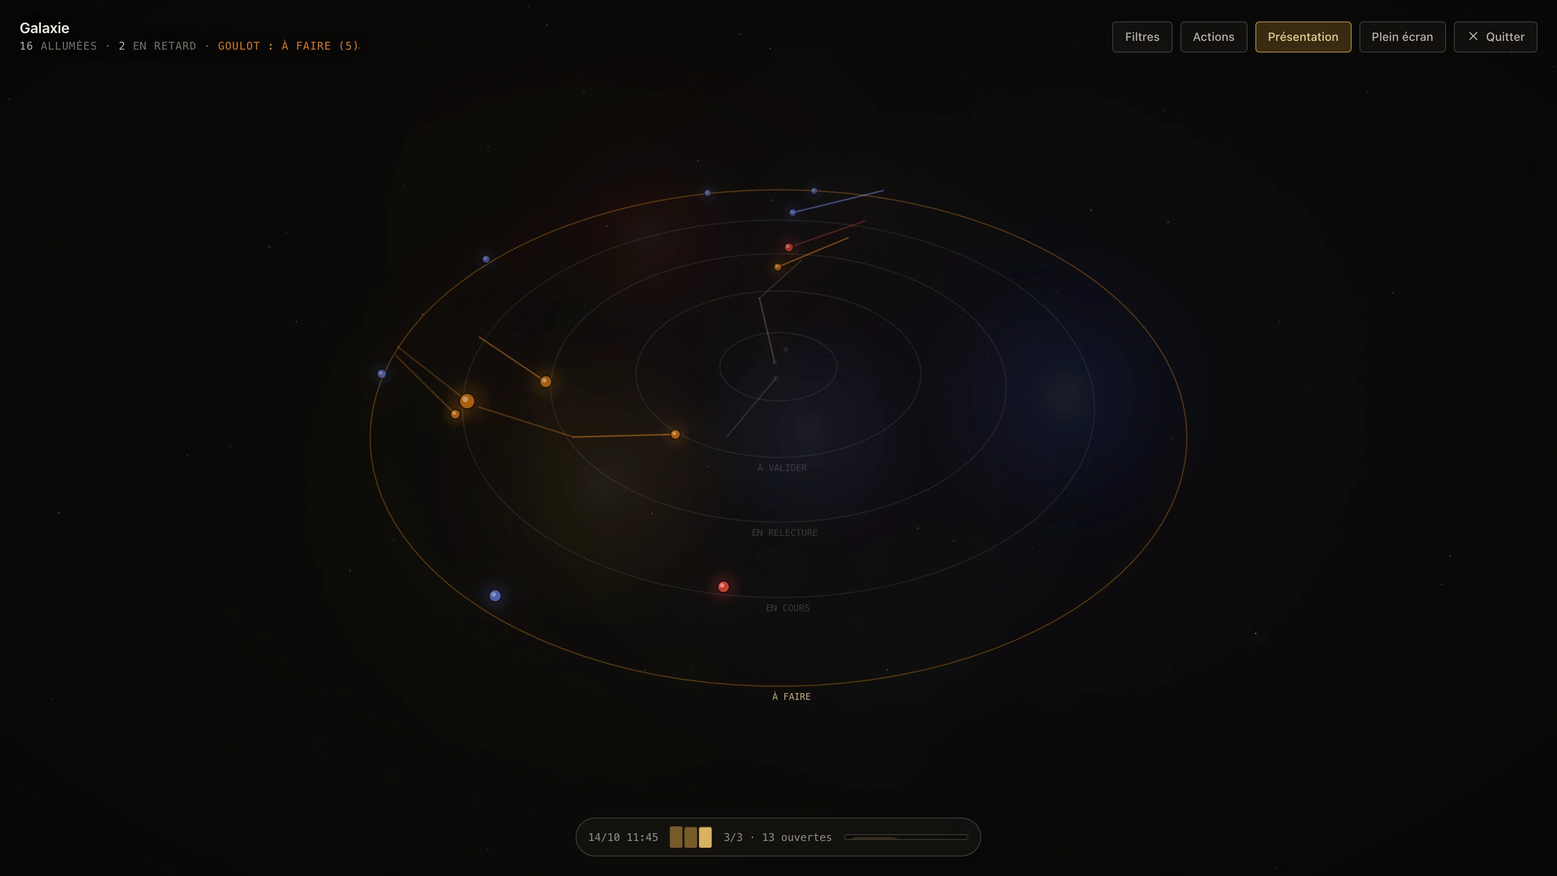
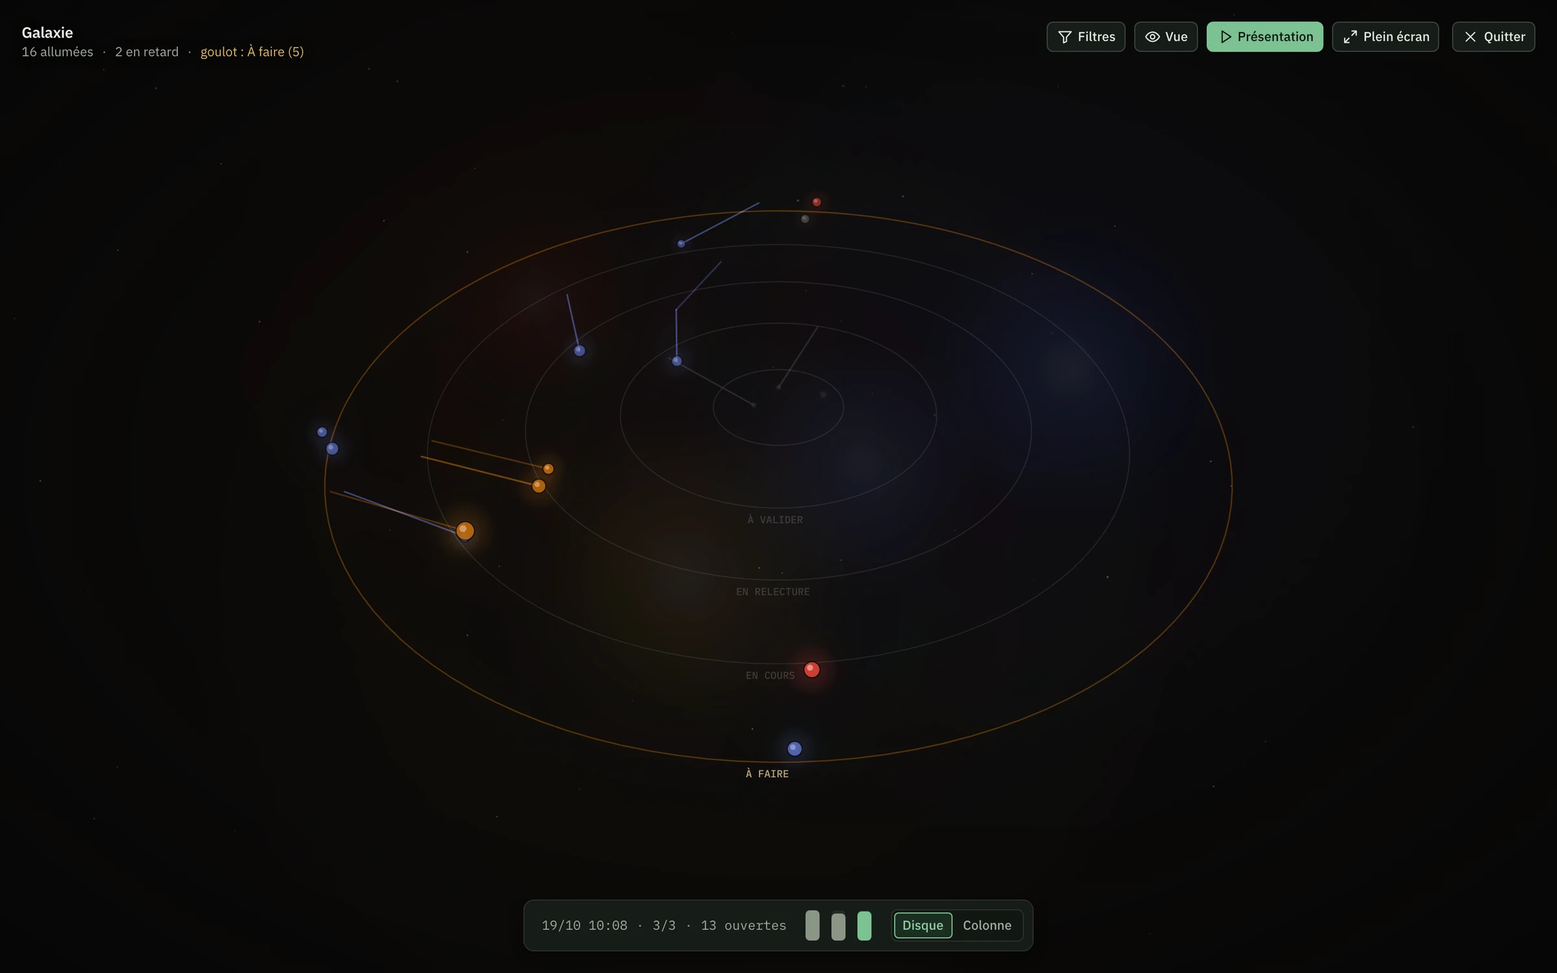
feat(site): refaire les captures de Karl Scraper après sa refonte
L'interface a été refaite et fusionnée le 19/10/2026 : les écrans
provisoires du 14/10 laissent la place à une série prise à la révision
4e054a3, chaque écran pris sur son panneau de contenu, la nouvelle
coquille nommant l'outil source. Recadrages, loupes, alts et provenance
suivent les nouveaux écrans ; la page ne les dit plus provisoires.

diff --git a/site/tests/e2e/karl-scraper.spec.ts b/site/tests/e2e/karl-scraper.spec.ts
@@ -109,6 +109,7 @@ test('rien ne nomme une donnée privée ni une référence réelle : « Karl » 
   expect(texte).not.toMatch(/\b181\b/);
   await expect(page.locator('#sources')).toContainText('données fictives');
   await expect(page.locator('#sources')).toContainText('6615950');
+  await expect(page.locator('#sources')).toContainText('4e054a3');
 });
 
 test('quatre vrais écrans : l’en-tête recadré sur sa colonne, chacun s’ouvre en grand et se referme à Échap', async ({ page }) => {
@@ -128,7 +129,7 @@ test('quatre vrais écrans : l’en-tête recadré sur sa colonne, chacun s’ou
   const entiere = visionneuse.locator('[data-visionneuse-image]');
   await expect.poll(() => entiere.evaluate((img: HTMLImageElement) => img.naturalWidth)).toBeGreaterThan(0);
   const ratio = await entiere.evaluate((img: HTMLImageElement) => img.naturalWidth / img.naturalHeight);
-  expect(ratio).toBeCloseTo(2392 / 562, 1);
+  expect(ratio).toBeCloseTo(2352 / 1060, 1);
   await page.keyboard.press('Escape');
   await expect(visionneuse).toBeHidden();
   await expect(agrandir).toBeFocused();
@@ -145,11 +146,11 @@ test('la Galaxie, toujours sombre, vit dans un acte de veille, et sa loupe lit l
   const imageLoupe = capture.locator('.loupe img');
   await expect.poll(() => imageLoupe.evaluate((img: HTMLImageElement) => img.complete && img.naturalWidth > 0)).toBe(true);
   const [loupe, detail, ecran] = await Promise.all([capture.locator('.loupe').boundingBox(), imageLoupe.boundingBox(), capture.locator('.capture__vue > a img').boundingBox()]);
-  // L’image de la loupe est entière (2400 × 1350) et agrandie : le compte s’y lit.
-  expect(detail!.width / detail!.height).toBeCloseTo(2400 / 1350, 1);
+  // L’image de la loupe est entière (2400 × 1500) et agrandie : le compte s’y lit.
+  expect(detail!.width / detail!.height).toBeCloseTo(2400 / 1500, 1);
   expect(detail!.width).toBeGreaterThan(loupe!.width * 3.5);
   // La capture entière, à son ratio, et assez large pour la page.
-  expect(ecran!.width / ecran!.height).toBeCloseTo(2400 / 1350, 1);
+  expect(ecran!.width / ecran!.height).toBeCloseTo(2400 / 1500, 1);
   if ((page.viewportSize()?.width ?? 0) >= 1440) expect(ecran!.width).toBeGreaterThan(800);
 });
 
@@ -158,8 +159,8 @@ test('l’en-tête : sur mobile, les deux règles seules, lisibles ; sur ordinat
   const vue = page.locator('.ksc-entete-capture .capture__vue');
   const boite = await vue.boundingBox();
   const ratio = boite!.width / boite!.height;
-  if ((page.viewportSize()?.width ?? 0) <= 860) expect(ratio).toBeCloseTo((0.39 * 2728) / (0.46 * 1278), 1);
-  else expect(ratio).toBeCloseTo((0.59 * 2728) / 1278, 1);
+  if ((page.viewportSize()?.width ?? 0) <= 860) expect(ratio).toBeCloseTo((0.605 * 1808) / (0.355 * 1186), 1);
+  else expect(ratio).toBeCloseTo(1808 / 1186, 1);
 });
 
 test('sur mobile, l’écart seul se lit ; sur ordinateur, les trois panneaux', async ({ page }) => {
@@ -168,8 +169,8 @@ test('sur mobile, l’écart seul se lit ; sur ordinateur, les trois panneaux', 
   await vue.scrollIntoViewIfNeeded();
   const boite = await vue.boundingBox();
   const ratio = boite!.width / boite!.height;
-  if ((page.viewportSize()?.width ?? 0) <= 860) expect(ratio).toBeCloseTo(801 / 562, 1);
-  else expect(ratio).toBeCloseTo(2392 / 562, 1);
+  if ((page.viewportSize()?.width ?? 0) <= 860) expect(ratio).toBeCloseTo((0.445 * 2352) / (0.815 * 1060), 1);
+  else expect(ratio).toBeCloseTo(2352 / 1060, 1);
 });
 
 test('la loupe de la vue agent : l’image garde sa proportion, ne couvre pas la cible, passe dessous sous 560 px', async ({ page }) => {
@@ -184,8 +185,8 @@ test('la loupe de la vue agent : l’image garde sa proportion, ne couvre pas la
     capture.locator('.capture__vue > a img').boundingBox(),
     capture.locator('.loupe img').boundingBox(),
   ]);
-  // L’image de la loupe est entière (1696 × 1668), pas écrasée à la hauteur de la loupe.
-  expect(detail!.width / detail!.height).toBeCloseTo(1696 / 1668, 1);
+  // L’image de la loupe est entière (1086 × 1602), pas écrasée à la hauteur de la loupe.
+  expect(detail!.width / detail!.height).toBeCloseTo(1086 / 1602, 1);
   expect(detail!.height).toBeGreaterThan(loupe!.height * 2);
   const separees = loupe!.x > cible!.x + cible!.width || loupe!.y > cible!.y + cible!.height || loupe!.x + loupe!.width < cible!.x || loupe!.y + loupe!.height < cible!.y;
   expect(separees).toBe(true);
@@ -226,7 +227,9 @@ test('la sortie : GitHealth avant, Sillage après, retour à la vitrine, « Disc
   await expect(sortie.getByRole('link', { name: /Projet suivant\s+Sillage/ })).toHaveAttribute('href', '/projets/sillage');
   await expect(sortie.getByRole('link', { name: /Tous les projets/ })).toHaveAttribute('href', '/projets');
   await expect(sortie.locator('a[href^="http"]')).toHaveCount(0);
-  await expect(sortie).toContainText('les écrans de cette page sont provisoires');
+  // Les écrans sont pris après la refonte graphique : plus rien de provisoire.
+  await expect(sortie).toContainText('les écrans de cette page la montrent');
+  await expect(page.locator('main')).not.toContainText('provisoire');
 });
 
 test('une seule navigation de page, sans la note de sources', async ({ page }) => {

diff --git a/site/src/config/karl-scraper.ts b/site/src/config/karl-scraper.ts
@@ -15,8 +15,8 @@
  * ici ; les enchaînements sont livrés sans aucune règle : la page le dit.
  *
  * Captures : vraies vues de l’application lancée en local avec des données de
- * démonstration fictives, provisoires jusqu’à la refonte graphique de son
- * interface (src/assets/projets/karl-scraper/README.md).
+ * démonstration fictives, prises le 19/10/2026 à la révision 4e054a3, après la
+ * refonte graphique de son interface (src/assets/projets/karl-scraper/README.md).
  */
 import type { EntreeSommaire } from './navigation';
 import type { CarteVitrine } from './vitrine';
@@ -47,13 +47,13 @@ export const CARTE: CarteVitrine = {
   ],
   // La Galaxie, recadrée sur ses anneaux (KSC-C1, carte-galaxie.webp) : entière,
   // ses tâches ne faisaient que 2 ou 3 px à la taille d’une carte. Le recadrage
-  // garde les tâches reliées et deux libellés de statut, sans en trancher aucun.
+  // garde des tâches et leurs traînées, et deux libellés de statut entiers.
   visuel: {
     capture: {
       type: 'navigateur',
       src: carteGalaxie,
-      alt: 'La Galaxie de Karl Scraper : des tâches fictives sur les anneaux de leur statut, reliées entre elles.',
-      widths: [400, 783],
+      alt: 'La Galaxie de Karl Scraper : des tâches fictives sur les anneaux de leur statut, certaines suivies de la traînée de leurs positions précédentes.',
+      widths: [400, 780],
     },
   },
 };
@@ -132,7 +132,7 @@ export const ECRANS = {
     legende: 'Deux règles écrites pour la démonstration : retenir la compréhension qu’un agent propose (une « lecture », à l’écran), puis la confier à un agent. Un clic agrandit l’écran.',
   },
   tableauDeBord: {
-    alt: 'Le tableau de bord sur trois projets fictifs : les tâches par projet, par statut, et l’écart avec l’observation précédente, cinq statuts changés et une tâche nouvelle.',
+    alt: 'Le tableau de bord sur trois projets fictifs : l’écart avec l’observation précédente, cinq statuts changés et une tâche nouvelle, puis les tâches par projet et par statut.',
     legende: 'L’écart avec l’observation précédente : cinq statuts ont changé, une tâche est apparue.',
   },
   galaxie: {

diff --git a/site/src/config/visuels.ts b/site/src/config/visuels.ts
@@ -2745,7 +2745,7 @@ export const VISUELS: readonly EntreeVisuel[] = [
     page: '/projets/karl-scraper',
     emplacement: 'En-tête, § Une copie locale, § La Galaxie, § Ce que l’agent lit ; carte de la vitrine',
     sujet: 'Les écrans de Karl Scraper',
-    composition: 'Écrans réels de l’application lancée en local à la révision 6615950, face à un faux serveur source et sur des données fictives (trois projets, seize tâches, trois observations), aucun agent lancé, sans retouche ni recomposition',
+    composition: 'Écrans réels de l’application lancée en local à la révision 4e054a3, après la refonte graphique de son interface, face à un faux serveur source et sur des données fictives (trois projets, seize tâches, trois observations), aucun agent lancé, chaque écran pris sur son panneau de contenu, sans retouche ni recomposition',
     format: 'format natif des écrans',
     ratio: null,
     methode: 'CAP',
@@ -2760,7 +2760,7 @@ export const VISUELS: readonly EntreeVisuel[] = [
       { nom: 'vue-agent', fichier: 'src/assets/projets/karl-scraper/vue-agent.webp', alt: '' },
       { nom: 'carte-galaxie', fichier: 'src/assets/projets/karl-scraper/carte-galaxie.webp', alt: '' },
     ],
-    note: 'Captures provisoires, à refaire après la refonte graphique de l’interface ; provenance dans src/assets/projets/karl-scraper/README.md, alts et légendes dans config/karl-scraper.ts. Aucun libellé qui nomme l’outil source à l’écran.',
+    note: 'Série du 19/10/2026, après la refonte graphique de l’interface ; provenance dans src/assets/projets/karl-scraper/README.md, alts et légendes dans config/karl-scraper.ts. Aucun libellé qui nomme l’outil source à l’écran.',
   },
 
   // ↑ fin des entrées KSC

diff --git a/site/src/config/pages.ts b/site/src/config/pages.ts
@@ -13,14 +13,14 @@
  */
 export const PAGES_SITEMAP = [
   { chemin: '/', maj: '2026-10-16' },
-  { chemin: '/projets', maj: '2026-10-15' },
+  { chemin: '/projets', maj: '2026-10-19' },
   { chemin: '/projets/pvz-fusion', maj: '2026-10-16' },
   { chemin: '/projets/omnicard', maj: '2026-10-16' },
   { chemin: '/projets/gup', maj: '2026-10-16' },
   { chemin: '/projets/bloodborne-legendary-run', maj: '2026-10-16' },
   { chemin: '/projets/league-of-database', maj: '2026-10-16' },
   { chemin: '/projets/githealth', maj: '2026-10-16' },
-  { chemin: '/projets/karl-scraper', maj: '2026-10-16' },
+  { chemin: '/projets/karl-scraper', maj: '2026-10-19' },
   { chemin: '/projets/sillage', maj: '2026-10-16' },
   { chemin: '/projets/relais', maj: '2026-10-16' },
   { chemin: '/parcours', maj: '2026-10-15' },

diff --git a/site/src/assets/projets/karl-scraper/README.md b/site/src/assets/projets/karl-scraper/README.md
@@ -1,44 +1,47 @@
-# Captures de Karl Scraper (14 octobre 2026)
+# Captures de Karl Scraper (19 octobre 2026)
 
-**Captures provisoires, à refaire après la refonte graphique** de l’interface : son design actuel
-attend une refonte, d’après Charles. Registre : `KSC-C1` (`src/config/visuels.ts`) ; alts et
-légendes dans `src/config/karl-scraper.ts`.
+Série refaite après la refonte graphique de l’interface, fusionnée dans la branche de
+développement le 19 octobre 2026 ; elle remplace la série provisoire du 14 octobre. Registre :
+`KSC-C1` (`src/config/visuels.ts`) ; alts et légendes dans `src/config/karl-scraper.ts`.
 
 Vraies vues de l’application lancée en local sur des **données de démonstration fictives**, sans
 retouche ni texte remplacé. Le dépôt de Karl Scraper est privé (décision de Charles du
 14/10/2026) : il n’est ni nommé ni lié sur le site.
 
-- **Version capturée** : branche `dev`, révision `66159501f23187b2e776c5961bdf01521fdfd1ae`
-  (`6615950`, 9 octobre 2026), copiée hors du dépôt sans aucune modification (état Git propre).
-  Service .NET 10 compilé en Release depuis cette copie, interface Angular 22 servie en
-  développement.
-- **Dates** : série du 14 octobre 2026 vers 11 h 50 (heure de Paris), reprise vers 11 h 58 sur la
-  même racine de démonstration (mêmes données, mêmes observations) ; la Galaxie vient de la
-  première série.
-- **Navigateur** : Chromium (Playwright), densité 2, locale `fr-FR`, fuseau `Europe/Paris`.
-  Thème clair ; la Galaxie est une scène toujours sombre, imposée par l’application.
-- **Conversion** : PNG converti en WebP qualité 90 avec Sharp, sans recadrage ; la Galaxie est
-  ramenée de 3 200 à 2 400 px de large, assez pour la visionneuse. Seule exception au « sans
-  recadrage » : la vignette de la vitrine (voir le tableau).
+- **Version capturée** : branche `dev`, révision `4e054a3789bd12aa2aa98432aab8e48184ce3efe`
+  (`4e054a3`, 19 octobre 2026), copiée hors du dépôt sans aucune modification (état Git propre).
+  Service .NET 10 publié en Release depuis cette copie, interface Angular 22 construite en
+  production et servie par le service lui-même, comme le fait le script de build du projet.
+- **Date** : série du 19 octobre 2026 vers 10 h 10 (heure de Paris), rejouée de bout en bout sur
+  une racine de stockage vide.
+- **Navigateur** : Chromium (Playwright), densité 2, locale `fr-FR`, fuseau `Europe/Paris`,
+  mouvement réduit. Thème clair ; la Galaxie est une scène toujours sombre, imposée par
+  l’application.
+- **Cadrage** : la refonte a posé une coquille (rail de navigation, barre du haut, barre d’état)
+  dont des libellés codés en dur nomment l’outil source ; chaque écran, sauf la Galaxie qui couvre
+  la coquille, est donc pris par le `clip` de Playwright sur la boîte de son panneau de contenu,
+  mesurée dans la page. Aucun recadrage après coup, sauf la vignette de la vitrine.
+- **Conversion** : PNG converti en WebP qualité 90 avec Sharp ; la Galaxie est ramenée de 2 880 à
+  2 400 px de large, assez pour la visionneuse.
 
 ## Les fichiers
 
 | Fichier | Scène | Ce qu’elle montre | Dimensions | Usage |
 |---|---|---|---|---|
-| `enchainements.webp` | Réglages, onglet Enchaînements | L’interrupteur général allumé, les plafonds (lancements d’agent par jour, créneaux laissés libres, abandon) et deux règles fictives : retenir une lecture proposée, puis la confier à Relais. Cadre arrêté sous la règle 2. | 2728 × 1278 | En-tête de `/projets/karl-scraper`, recadré sur sa colonne (marges vides hors cadre) |
-| `tableau-de-bord.webp` | Tableau de bord | Les panneaux Par projet, Par statut et l’écart avec l’observation précédente (cinq statuts changés, une tâche nouvelle). | 2392 × 562 | § Une copie locale ; sur mobile, le seul panneau de l’écart |
-| `galaxie.webp` | Galaxie | Les seize tâches sur les anneaux de leur statut, deux en retard, le goulot à « À faire », la frise des trois observations. Fenêtre entière, sans barre latérale. | 2400 × 1350 | § La Galaxie |
-| `carte-galaxie.webp` | Galaxie, recadrée | Recadrage de `galaxie` sur la moitié gauche des anneaux (zone de 783 × 627 à partir de 550, 250) : les tâches reliées et les libellés « À valider » et « En relecture », sans en trancher aucun. WebP qualité 90. | 783 × 627 | Carte de la vitrine `/projets` |
-| `vue-agent.webp` | Tâches, détail, onglet « Vue agent » | La donnée exacte que l’outil MCP `get_task` sert à un agent pour la tâche fictive n° 1204, figée sur une observation scellée, en entier. Prise à 900 px de large, où l’application empile le détail sur toute la largeur. | 1696 × 1668 | § Ce que l’agent lit |
+| `enchainements.webp` | Réglages, Enchaînements (fenêtre de 1 440 × 900) | La colonne des enchaînements : l’interrupteur général allumé, les plafonds (lancements d’agent par jour, créneaux laissés libres, abandon, heures creuses), puis les deux règles fictives, allumées : retenir une lecture proposée, puis la confier à Relais. Cadre arrêté sous la règle 2. | 1808 × 1186 | En-tête de `/projets/karl-scraper` ; sur mobile, les deux règles seules |
+| `tableau-de-bord.webp` | Tableau de bord, bloc des panneaux (fenêtre de 1 440 × 900) | L’écart avec l’observation précédente (cinq statuts changés, une tâche nouvelle), puis les panneaux Par projet et Par statut. | 2352 × 1060 | § Une copie locale ; sur mobile, l’écart seul |
+| `galaxie.webp` | Galaxie, fenêtre entière (1 440 × 900) | Les seize tâches sur les anneaux de leur statut, deux en retard, le goulot à « À faire », la frise des trois observations. | 2400 × 1500 | § La Galaxie |
+| `carte-galaxie.webp` | Galaxie, recadrée | Recadrage de `galaxie` avant réduction (zone de 780 × 630 à partir de 735, 485 dans l’image de 2 880 px) : des tâches reliées à leurs positions précédentes et les libellés « À valider » et « En relecture », sans en trancher aucun. | 780 × 630 | Carte de la vitrine `/projets` |
+| `vue-agent.webp` | Tâches, détail, onglet « Vue agent » (fenêtre de 900 px de large) | La donnée exacte que l’outil MCP `get_task` sert à un agent pour la tâche fictive n° 1204, figée sur une observation scellée, en entier. À cette largeur, le détail s’ouvre en tiroir ; le cadre va de la barre d’onglets au bas de l’onglet. | 1086 × 1602 | § Ce que l’agent lit |
 
 ## Ce qui reste hors champ
 
-- **Aucun libellé qui nomme l’outil source.** Les écrans dont un libellé codé en dur le nomme
-  (liste des tâches avec son détail, règle qui pose le statut, bandeau et cartes chiffrées du
-  tableau de bord) ne sont pas publiés ; les cadrages retenus s’arrêtent avant eux. Le préfixe des
-  références de tâche n’apparaît sur aucun des fichiers.
-- **Barre latérale et barre du haut** : elles portent en dur l’adresse de l’outil source réel et
-  le nom technique de l’application ; les écrans sont cadrés sur le seul panneau de contenu.
+- **Aucun libellé qui nomme l’outil source.** La coquille (rail, barre du haut, barre d’état), la
+  navigation latérale des réglages, les tuiles chiffrées et l’encart de session du tableau de
+  bord, et l’en-tête du détail d’une tâche portent de tels libellés : les cadrages s’arrêtent
+  avant eux. Le titre et le projet de la tâche se lisent dans la donnée de la vue agent. Le
+  préfixe des références de tâche n’apparaît sur aucun des fichiers ; la bulle de survol de la
+  Galaxie, qui le porte, n’est pas ouverte.
 - **Lien profond** : le service de démonstration calcule un lien neutre
   (`http://127.0.0.1:8890/taches/{n}`), visible dans la vue agent.
 - **Écrans d’agents** (préparation, répartition, espaces, plans, réalisation) : vides, aucun agent
@@ -53,26 +56,30 @@ retouche ni texte remplacé. Le dépôt de Karl Scraper est privé (décision de
 - Statuts : À faire, En cours, En relecture, À valider, Terminé. Natures : Évolution, Anomalie,
   Amélioration.
 - Seize tâches de développement génériques (références 1171 à 1216), trois fils de commentaires,
-  des listes à cocher, une pièce jointe (une maquette en fil de fer générée par le script).
+  des listes à cocher, une pièce jointe (une maquette en fil de fer générée par le script) ; deux
+  tâches en retard.
 - Trois passages de synchronisation lancés à la main ; entre deux, le faux serveur fait avancer des
   statuts et ajoute une tâche : d’où les trois observations, l’écart du tableau de bord et la frise
   de la Galaxie.
 - Préréglages de filtres, tons de statut et règles d’enchaînement posés par l’API du service de
-  démonstration.
+  démonstration. La règle 1 exige depuis la refonte une confiance et une liste de dépôts : la
+  confiance « haute » et trois dépôts fictifs vides, créés dans le dossier personnel de
+  démonstration, invisibles à l’écran.
 
 ## Isolement
 
 - Racine de stockage vide et dossier personnel déplacé dans un dossier temporaire ; jamais la
-  racine réelle de l’outil ni le port du service réel, qui n’a pas été touché.
+  racine réelle de l’outil ni le port du service réel, qui n’a reçu aucune requête.
 - Session factice ; préparation, répartition et notifications coupées.
 - Faux serveur source (Python, bibliothèque standard) en local : il ne sert que les routes lues par
-  le client et la seule écriture de statut ; son journal ne montre que des lectures.
+  le client ; son journal ne montre que des lectures, aucune écriture. Le navigateur n’a rien
+  demandé hors de la machine.
 - Relais et Sillage pointés vers des ports morts, avec des jetons factices ; les agents et la CLI
   GitHub remplacés par de faux exécutables (aucun appel constaté). Les enchaînements sont allumés
   pour montrer l’écran dans son état actif : aucun déclencheur ne pouvait partir, faute de lecture
   ou de réalisation.
 - Tous les processus lancés ont été arrêtés et leurs ports libérés à la fin.
 
-Les scripts de rejeu (préparation de la racine, faux serveur, données, réglages, captures) sont
-hors du dépôt, avec la provenance détaillée de la série. Les identifiants d’observation, les heures
-et les échéances relatives changent à chaque rejeu.
+Les scripts de rejeu (préparation de la racine, faux serveur, données, réglages, captures et
+mesures) sont hors du dépôt, avec la provenance détaillée de la série. Les identifiants
+d’observation, les heures et les échéances relatives changent à chaque rejeu.

diff --git a/docs/visuels-a-generer.md b/docs/visuels-a-generer.md
@@ -2802,11 +2802,11 @@ Fiches pour mémoire : rien à produire.
 - **Emplacement** : `/projets/karl-scraper` · En-tête, § Une copie locale, § La Galaxie, § Ce que l’agent lit ; carte de la vitrine _(contexte : ne pas le recopier dans un prompt)_
 - **Posé dans** : `src/pages/projets/karl-scraper.astro`, `src/config/karl-scraper.ts`
 - **Sujet** : Les écrans de Karl Scraper
-- **Composition** : Écrans réels de l’application lancée en local à la révision 6615950, face à un faux serveur source et sur des données fictives (trois projets, seize tâches, trois observations), aucun agent lancé, sans retouche ni recomposition
+- **Composition** : Écrans réels de l’application lancée en local à la révision 4e054a3, après la refonte graphique de son interface, face à un faux serveur source et sur des données fictives (trois projets, seize tâches, trois observations), aucun agent lancé, chaque écran pris sur son panneau de contenu, sans retouche ni recomposition
 - **Format** : format natif des écrans
 - **Fichiers attendus** (5) : `site/src/assets/projets/karl-scraper/enchainements.webp` ; `site/src/assets/projets/karl-scraper/tableau-de-bord.webp` ; `site/src/assets/projets/karl-scraper/galaxie.webp` ; `site/src/assets/projets/karl-scraper/vue-agent.webp` ; `site/src/assets/projets/karl-scraper/carte-galaxie.webp`
 - **Alt prévu** (pour le HTML, jamais pour un prompt) : aucun, visuel décoratif
-- **Note** : Captures provisoires, à refaire après la refonte graphique de l’interface ; provenance dans src/assets/projets/karl-scraper/README.md, alts et légendes dans config/karl-scraper.ts. Aucun libellé qui nomme l’outil source à l’écran.
+- **Note** : Série du 19/10/2026, après la refonte graphique de l’interface ; provenance dans src/assets/projets/karl-scraper/README.md, alts et légendes dans config/karl-scraper.ts. Aucun libellé qui nomme l’outil source à l’écran.
 
 ### Sillage
 

diff --git a/site/src/assets/projets/README.md b/site/src/assets/projets/README.md
@@ -89,7 +89,7 @@ Sillage et Relais sont des dépôts privés : ni nommés ni liés, ici comme sur
 | Dossier | Registre | Révision | Données de démonstration |
 |---|---|---|---|
 | [`githealth/`](githealth/README.md) | `GTH-C1` | `bd2e5c9` (`dev`, version affichée 0.2.0) | dépôts Git fabriqués, auteurs fictifs en `example.invalid` |
-| [`karl-scraper/`](karl-scraper/README.md) | `KSC-C1` | `6615950` | faux serveur source, trois projets et seize tâches fictifs ; **captures provisoires**, à refaire après la refonte graphique |
+| [`karl-scraper/`](karl-scraper/README.md) | `KSC-C1` | `4e054a3` (après la refonte graphique, 19/10/2026) | faux serveur source, trois projets et seize tâches fictifs |
 | [`sillage/`](sillage/README.md) | `SIL-C1` | `c256e76` | faux fournisseur des tests du dépôt, trois projets de démonstration |
 | [`relais/`](relais/README.md) | `REL-C1` | `bdf041f` (version 0.2.0) | agent de démonstration aux tours écrits à l’avance, sans inférence |
 
